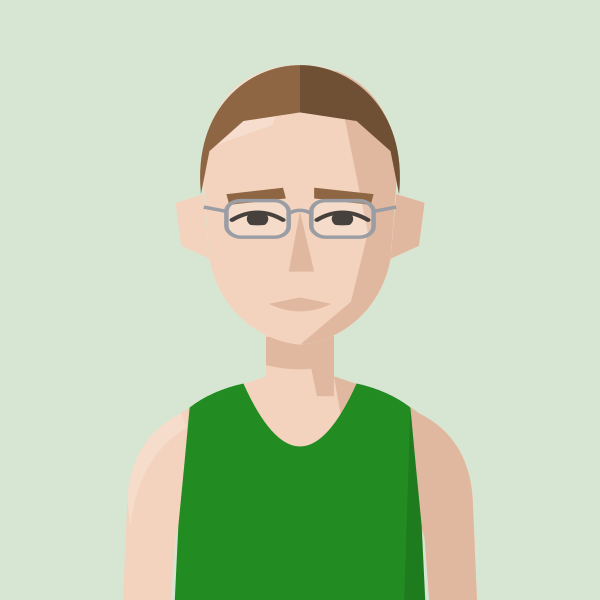
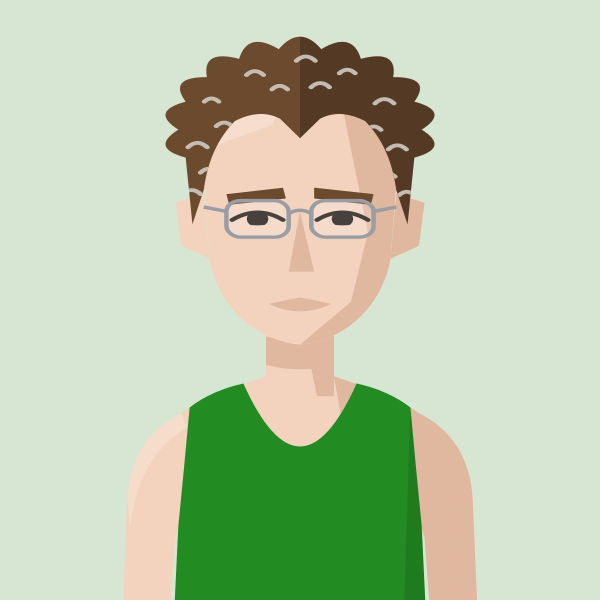
Portraits: Mark Tennyson's curly greying hair with widow's peak
Claude-Session: https://claude.ai/code/session_01MgmDWhFqnSSnP4iBLKXUZC

Changed region(s): [[0.27, 0.06, 0.72, 0.36], [0.51, 0.3, 0.63, 0.33], [0.39, 0.3, 0.48, 0.33]]

diff --git a/tools/gen_portraits.py b/tools/gen_portraits.py
@@ -76,6 +76,7 @@ HAIR = {  # in head coordinates
     "buzzrecede": '<path d="M66,96 C64,58 80,40 100,40 C120,40 136,58 134,96 L131,80 Q130,66 124,58 Q118,50 112,50 Q106,52 104,58 Q100,62 96,58 Q94,52 88,50 Q82,50 76,58 Q70,66 69,80 Z"/>',
     "buzz": '<path d="M66,96 C64,58 80,40 100,40 C120,40 136,58 134,96 L130,74 L116,59 L100,56 L84,59 L70,74 Z"/>',
     "bigcurls": '<path d="M64,104 L57.7,84.4 Q43.0,80.3 55.0,71.2 Q42.5,62.8 56.9,58.0 Q47.8,46.0 63.1,45.9 Q58.4,31.7 73.1,36.3 Q73.2,21.2 85.8,30.1 Q90.8,15.7 100.0,28.0 Q109.2,15.7 114.2,30.1 Q126.8,21.2 126.9,36.3 Q141.6,31.7 136.9,45.9 Q152.2,46.0 143.1,58.0 Q157.5,62.8 145.0,71.2 Q157.0,80.3 142.3,84.4 L136,104 L134,88 Q131,72 122,64 Q112,70 104,63 Q96,70 86,64 Q74,68 69,76 Q66,82 66,88 Z"/>',
+    "curlspeak": '<path d="M62,114 L59.6,83.0 Q46.8,78.5 57.0,70.0 Q46.8,61.5 59.6,57.0 Q53.2,45.5 67.1,45.6 Q65.3,32.5 78.5,37.1 Q81.5,24.0 92.5,32.6 Q100.0,21.0 107.5,32.6 Q118.5,24.0 121.5,37.1 Q134.7,32.5 132.9,45.6 Q146.8,45.5 140.4,57.0 Q153.2,61.5 143.0,70.0 Q153.2,78.5 140.4,83.0 L138,114 L134,98 Q132,78 123,66 Q114,60 107,65 L100,74 L93,65 Q86,60 77,66 Q68,78 66,98 Z"/>',
     "curtains": '<path d="M60,108 C54,62 76,32 100,32 C124,32 146,62 140,108 L136,104 C135,94 132,86 126,80 C116,72 107,70 102,58 L98,58 C93,70 84,72 74,80 C68,86 65,94 64,104 Z"/>',
     "croprecede": '<path d="M65,100 C62,60 82,40 100,40 C118,40 138,60 135,100 L132,84 Q131,64 125,56 Q118,48 111,54 Q105,61 100,61 Q95,61 89,54 Q82,48 75,56 Q69,64 68,84 Z"/>',
     "afro": '<path d="M65,100 C61,90 59,76 60,62 C61,38 78,22 100,21 C122,22 139,38 140,62 C141,76 139,90 135,100 L132,84 C126,72 116,66 100,65 C84,66 74,72 68,84 Z"/>',
@@ -99,7 +100,7 @@ FACIAL = {
     "stubble": '<path d="M66,112 L74,124 L84,146 L116,146 L126,124 L134,112 L134,180 L66,180 Z" opacity=".32"/>',
 }
 
-def figure(kit, mode="custom", skin=1, hair="crop", hair_colour="dark brown", facial=None, cap=None, shades=False, tattoos=False, beanie=None, mud=False, glasses=False, roots=None, stars=0, gaunt=False, tag="f"):
+def figure(kit, mode="custom", skin=1, hair="crop", hair_colour="dark brown", facial=None, cap=None, shades=False, tattoos=False, beanie=None, mud=False, glasses=False, roots=None, stars=0, gaunt=False, greying=False, tag="f"):
     primary, extras, ground = KITS[kit]
     line = mode == "outline"
     if mode == "custom": sk, dk, lt = SKIN[skin]
@@ -160,6 +161,8 @@ def figure(kit, mode="custom", skin=1, hair="crop", hair_colour="dark brown", fa
                     hg.append(f'<path d="M90,149 L110,149 L108,154 L92,154 Z" fill="{dk}"/>')
         if hair in HAIR:
             hg.append(f'<g fill="{hc}"' + (f' clip-path="url(#c{tag})"' if (cap or beanie) else '') + (' opacity=".6"' if hair in ("buzz","buzzrecede") else '') + f'>{HAIR[hair]}<g clip-path="url(#r{tag})" fill="#000" opacity=".22">{HAIR[hair]}</g></g>')
+            if greying:
+                hg.append(f'<clipPath id="hg{tag}">{HAIR[hair]}</clipPath><g clip-path="url(#hg{tag})" fill="none" stroke="#CFCAC2" stroke-width="1.8" stroke-linecap="round" opacity=".9"><path d="M60.4,78.2 q3.4,-4.1 6.8,0"/><path d="M64.8,90.0 q3.1,-3.7 6.2,0"/><path d="M58.6,100.0 q3.1,-3.8 6.3,0"/><path d="M70.4,68.4 q2.8,-3.4 5.6,0"/><path d="M131.2,79.2 q3.2,-3.8 6.4,0"/><path d="M126.7,91.9 q3.5,-4.2 6.9,0"/><path d="M135.0,100.5 q2.7,-3.2 5.3,0"/><path d="M123.5,70.1 q2.6,-3.1 5.1,0"/><path d="M66.2,57.0 q2.5,-3.0 5.1,0"/><path d="M126.5,57.8 q3.3,-4.0 6.7,0"/><path d="M81.1,44.6 q3.0,-3.6 6.0,0"/><path d="M113.9,43.8 q2.8,-3.3 5.6,0"/><path d="M98.7,38.0 q3.3,-4.0 6.7,0"/><path d="M90.1,51.3 q2.7,-3.3 5.5,0"/><path d="M103.9,50.3 q3.3,-3.9 6.5,0"/></g>')
             if roots and hair == "curtains":
                 hg.append(f'<clipPath id="hr{tag}">{HAIR["curtains"]}</clipPath><path clip-path="url(#hr{tag})" d="M56,84 C52,50 76,28 100,28 C124,28 148,50 144,84 C132,58 116,48 104,52 L101,60 L99,60 L96,52 C84,48 68,58 56,84 Z" fill="{HAIR_COL.get(roots, roots)}"/>')
             if hair == "ponytail":
@@ -271,7 +274,7 @@ save("cap_beanie", figure("HOL", skin=2, hair="crop", hair_colour="mid brown", b
 save("ruby", figure("H/W", skin=1, hair="ponytail", hair_colour="blonde"))
 save("foster", figure("G&G", skin=1, hair="crop", hair_colour="dark brown", facial="stubble"))
 save("hair_shortcurls", figure("HOL", skin=2, hair="shortcurls", hair_colour="mid brown"))
-save("tennyson", figure("G&G", skin=1, hair="crop", hair_colour="light brown", glasses=True))
+save("tennyson", figure("G&G", skin=1, hair="curlspeak", hair_colour="mid brown", greying=True, glasses=True))
 save("glasses_on", figure("HOL", skin=3, hair="crop", hair_colour="dark brown", glasses=True))
 save("ollington", figure("THH", skin=2, hair="crop", hair_colour="dark brown", facial="beard"))
 save("preston", figure("BEL", skin=3, hair="afro", hair_colour="black"))
